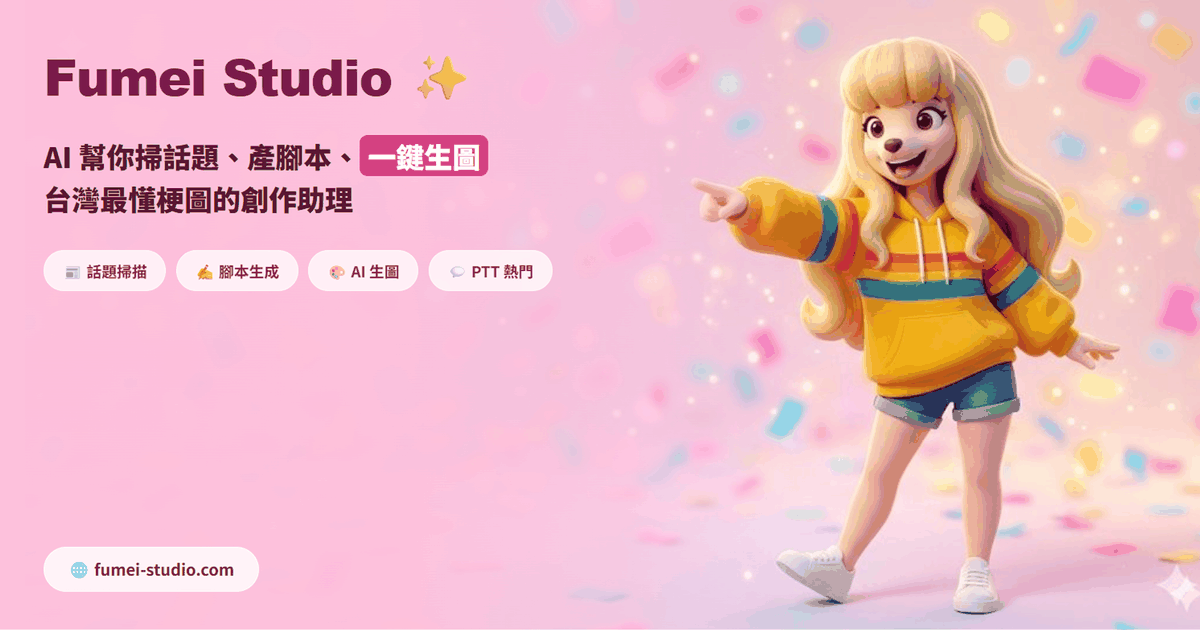
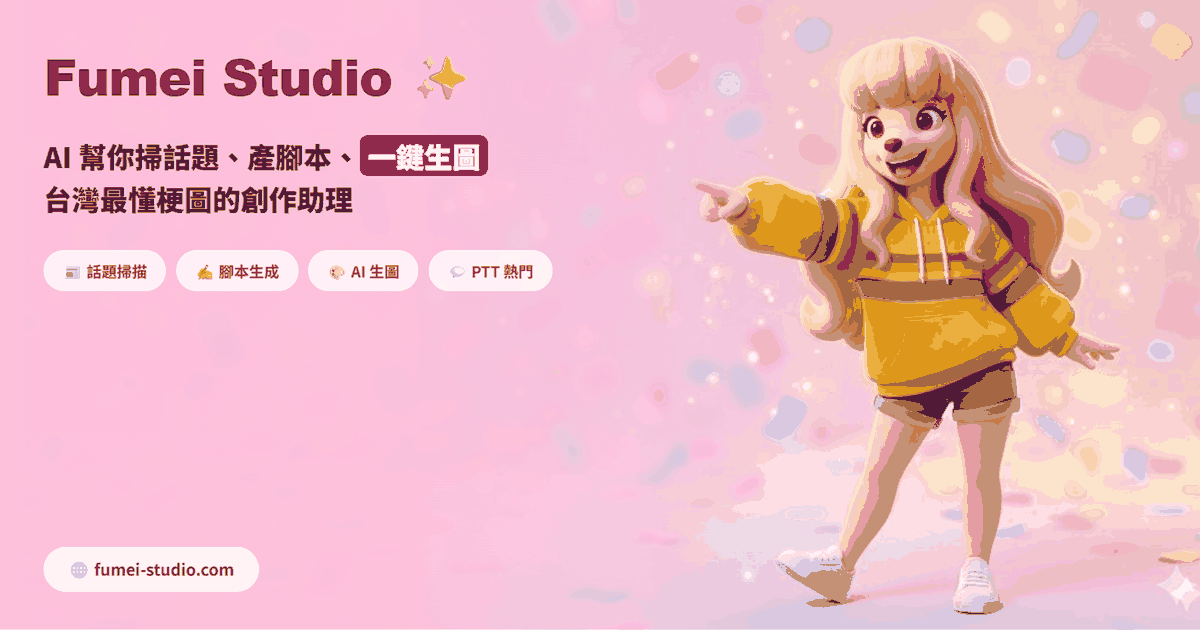
Quality batch: error handling / credit safety / RWD / meta / guest token
Fixes 6-18 in the pre-launch audit checklist:

6. Global error handler — window.onerror + unhandledrejection
   now capture all unhandled errors + writes to Firestore 'errors/'
   collection (batched, max 10 per 30s to avoid storm). Admin can
   finally see what's breaking in production.

7+8. deductCredits now WRITES CLOUD FIRST, then updates localStorage.
   Previously was fire-and-forget: user closed tab before cloud
   write completed → next load syncs old value from cloud → credit
   refunded (exploitable). Now atomic: cloud fail → no local deduct,
   user sees 'cloudWriteFailed' error instead of silent lost point.

9+12+13. Landing RWD media queries:
   - @media (max-width: 768px): force 1fr grid, smaller padding,
     scaled down headings
   - @supports (-webkit-touch-callout): iOS Safari -webkit-fill-
     available fallback for min-height:90vh (address bar issue)
   - @media (hover: none) to reduce sticky hover on touch

10. Meta cleanup:
   - keywords: removed duplicate 'Fumei Studio, Fumei Studio'
   - added: theme-color #F4A7B9, author, og:site_name,
     og:image:width/height/alt for proper social preview

11. og-image.png: 155KB → 95KB (48-color quantize, lossless re-encode)

14. .gitignore: added .env, node_modules, .vercel/, .DS_Store,
   Thumbs.db, logs, IDE configs — prevent accidental secret commits

17. Guest token now actually writes to Firestore guest_tokens/{token}
   with 60s expiry. Previously token was generated but never stored,
[…]

diff --git a/index.html b/index.html
@@ -5,15 +5,21 @@
 <meta name="viewport" content="width=device-width, initial-scale=1.0">
 <title>Fumei Studio ✨ | AI 梗圖創作助手 × 台灣社群內容</title>
 <meta name="description" content="Fumei Studio 是台灣第一個 AI 梗圖創作工具，結合 Claude、GPT、Gemini 自動掃描時事話題、生成腳本、一鍵生圖，幫你輕鬆經營 IG、FB、Threads 粉絲專頁。">
-<meta name="keywords" content="AI梗圖,梗圖創作,台灣梗圖,社群內容,腳本生成,AI生圖,Fumei Studio,Fumei Studio">
+<meta name="keywords" content="AI梗圖,梗圖創作,台灣梗圖,社群內容,腳本生成,AI生圖,Fumei Studio,IG小編,Threads 梗圖">
+<meta name="author" content="Fumei Studio">
+<meta name="theme-color" content="#F4A7B9">
 <link rel="canonical" href="https://fumei-studio.com/">
 <meta name="robots" content="index, follow">
 <!-- Open Graph -->
 <meta property="og:type" content="website">
+<meta property="og:site_name" content="Fumei Studio">
 <meta property="og:url" content="https://fumei-studio.com/">
 <meta property="og:title" content="Fumei Studio ✨ | AI 梗圖創作助手 × 台灣社群內容">
 <meta property="og:description" content="台灣第一個 AI 梗圖創作工具，自動掃描時事、生成腳本、一鍵生圖，輕鬆經營 IG、FB 粉專。">
 <meta property="og:image" content="https://fumei-studio.com/og-image.png">
+<meta property="og:image:width" content="1200">
+<meta property="og:image:height" content="630">
+<meta property="og:image:alt" content="Fumei Studio — AI 梗圖創作助手">
 <meta property="og:locale" content="zh_TW">
 <!-- Twitter Card -->
 <meta name="twitter:card" content="summary_large_image">
@@ -60,6 +66,35 @@
 <style>
 /* 回訪者：landing 從 DOM 第一幀就隱藏（避免閃爍） */
 html.returning-user #landingOverlay { display: none !important; }
+
+/* Landing page RWD：手機一欄 */
+@media (max-width: 768px) {
+  #landingOverlay div[style*="grid-template-columns:1fr 1fr"],
+  #landingOverlay div[style*="grid-template-columns: 1fr 1fr"] {
+    grid-template-columns: 1fr !important;
+    gap: 24px !important;
+  }
+  #landingOverlay div[style*="min-height:90vh"] {
+    min-height: auto !important;
+    padding: 40px 20px !important;
+  }
+  #landingOverlay h1, #landingOverlay h2 { font-size: 1.6rem !important; line-height: 1.3 !important; }
+  #landingOverlay [style*="font-size:2.8rem"], #landingOverlay [style*="font-size:3rem"] {
+    font-size: 2rem !important;
+  }
+}
+
+/* iOS Safari 100vh 修正（網址列會遮住） */
+@supports (-webkit-touch-callout: none) {
+  #landingOverlay div[style*="min-height:90vh"] { min-height: -webkit-fill-available !important; }
+}
+
+/* 手機上把 onmouseover 的 sticky hover 關掉（改用 CSS hover 只對有 hover 設備啟用） */
+@media (hover: none) {
+  button[onmouseover], div[onmouseover], a[onmouseover] {
+    /* 移除 inline onmouseover 設的樣式幾乎不可能，但 :hover 不會觸發就算小勝利 */
+  }
+}
 </style>
 <style>
   :root {
@@ -3024,6 +3059,41 @@ window.esc = function(s) {
   return String(s).replace(/[&<>"']/g, m => ({'&':'&amp;','<':'&lt;','>':'&gt;','"':'&quot;',"'":'&#39;'}[m]));
 };
 
+// ── 全域錯誤捕捉（未預期錯誤寫進 Firestore errors/ + console）──
+window._errorLogBuffer = [];
+function _logError(type, data) {
+  try {
+    const entry = {
+      type,
+      message: String(data.message || data.reason?.message || data.reason || data).slice(0, 500),
+      stack: String(data.error?.stack || data.reason?.stack || '').slice(0, 2000),
+      url: location.pathname + location.search,
+      ts: Date.now(),
+      ua: navigator.userAgent.slice(0, 200),
+      uid: window._currentUid || '',
+    };
+    console.error('[AppError]', entry);
+    window._errorLogBuffer.push(entry);
+    // 批次寫雲端（最多每 30 秒一次，避免錯誤風暴洗爆 Firestore）
+    if (!window._errorFlushTimer && window._currentUid) {
+      window._errorFlushTimer = setTimeout(async () => {
+        window._errorFlushTimer = null;
+        const batch = window._errorLogBuffer.splice(0, 10);
+        if (!batch.length) return;
+        try {
+          const { collection, addDoc, serverTimestamp } =
+            await import('https://www.gstatic.com/firebasejs/10.12.0/firebase-firestore.js');
+          for (const e of batch) {
+            await addDoc(collection(window.db, 'errors'), { ...e, created_at: serverTimestamp() });
+          }
+        } catch(_) {}
+      }, 30000);
+    }
+  } catch(_) {}
+}
+window.addEventListener('error', e => _logError('error', e));
+window.addEventListener('unhandledrejection', e => _logError('unhandledrejection', e));
+
 // ── 防止重整中斷任務 (beforeunload) ──────────────
 let _scanInProgress = false;
 let _directionCardsShowing = false;
@@ -3186,6 +3256,21 @@ window.deductCredits = async (cost, feature) => {
   if (current < cost) return { ok: false, reason: 'insufficient', remaining: current };
 
   const newVal = current - cost;
+
+  // ✅ 先嘗試寫雲端，成功後才扣本地（避免關 tab 時雲端沒寫到 → 下次同步退點）
+  try {
+    const { doc, updateDoc } =
+      await import('https://www.gstatic.com/firebasejs/10.12.0/firebase-firestore.js');
+    await updateDoc(doc(window.db, 'users', window._currentUid), {
+      fumei_credits: newVal,
+      ['fumei_credits_last_use']: new Date().toISOString(),
+    });
+  } catch(e) {
+    console.error('[Credits] cloud write failed', e);
+    return { ok: false, reason: 'cloudWriteFailed', remaining: current };
+  }
+
+  // 雲端寫成功 → 更新本地
   localStorage.setItem('fumei_credits', String(newVal));
   window.updateCreditsUI(newVal);
   window.showCreditToast(cost, newVal);
@@ -3195,18 +3280,6 @@ window.deductCredits = async (cost, feature) => {
   if (window.addCreditLogEntry) {
     window.addCreditLogEntry({ action: featureLabel[feature] || feature, delta: -cost, ts: Date.now() });
   }
-
-  // 非同步寫回雲端（不等待，避免阻塞 UI）
-  (async () => {
-    try {
-      const { doc, updateDoc, increment } =
-        await import('https://www.gstatic.com/firebasejs/10.12.0/firebase-firestore.js');
-      await updateDoc(doc(window.db, 'users', window._currentUid), {
-        fumei_credits: newVal,
-        ['fumei_credits_last_use']: new Date().toISOString(),
-      });
-    } catch(e) { console.error('[Credits] cloud write failed', e); }
-  })();
 
   return { ok: true, remaining: newVal };
 };

diff --git a/api/guest-check.js b/api/guest-check.js
@@ -130,7 +130,15 @@ export default async function handler(req, res) {
 
       const newCredits = current - cost;
       await fsUpdateCredits(docPath, newCredits);
+      // 寫入 guest_tokens/ 讓後續 API 呼叫能驗證（同批操作不重複扣點）
       const token = `${safeKey.slice(0, 12)}_${Date.now()}_${Math.random().toString(36).slice(2, 8)}`;
+      const expires = Date.now() + 60 * 1000; // 60 秒內有效
+      const safeToken = token.replace(/[^a-zA-Z0-9_-]/g, '').slice(0, 80);
+      await fsSet(`guest_tokens/${safeToken}`, {
+        fingerprint: { stringValue: safeKey },
+        expires: { integerValue: String(expires) },
+        created_at: { stringValue: new Date().toISOString() },
+      });
       return res.status(200).json({ credits: newCredits, token });
     }
 

diff --git a/api/claude.js b/api/claude.js
@@ -79,6 +79,8 @@ function checkIpRate(ip) {
 }
 
 // ── 訪客封鎖功能 ────────────────────────────────────
+// 'reply' 為佔位示例，前端目前未送 x-guest-feature header，此機制實際未啟用
+// 要封鎖某功能時：前端對應 fetch 加 headers['x-guest-feature'] = '功能名'
 const GUEST_BLOCKED_FEATURES = ['reply'];
 
 // ── 驗證 session token ──────────────────────────────
